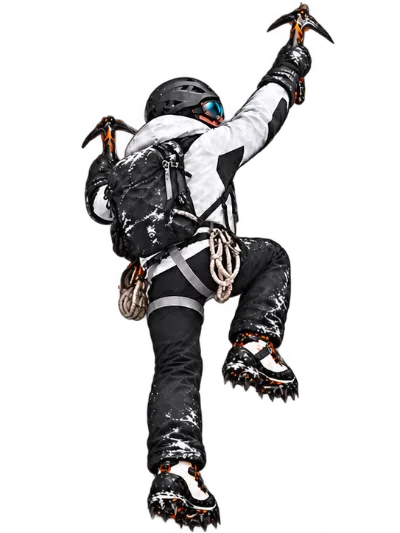
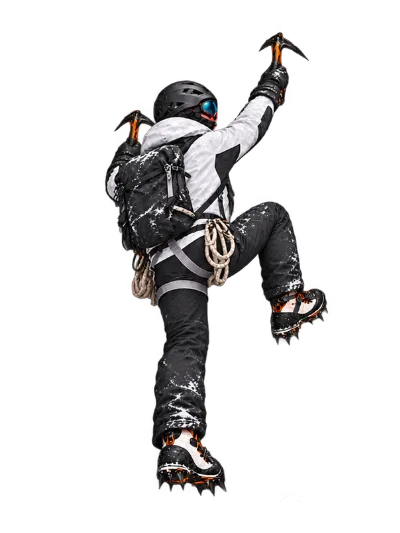
Rebuild Ascent climber as complete drawn frames

Changed region(s): [[0.21, 0.0, 0.84, 1.0]]

diff --git a/assets/js/expedition.js b/assets/js/expedition.js
@@ -16,18 +16,11 @@
   const climber = root.querySelector('[data-expedition-climber]');
   const primaryFrame = climber.querySelector('[data-climber-frame-primary]');
   const firstFrameUrl = primaryFrame.getAttribute('href');
-  const frameUrls = Array.from({ length: 17 }, (_, index) =>
+  const frameUrls = Array.from({ length: 16 }, (_, index) =>
     firstFrameUrl.replace(/01\.webp/, `${String(index + 1).padStart(2, '0')}.webp`));
-  // Register each complete illustration by its blue-goggle center. Source
-  // sheets varied in character placement; the old unregistered swaps made
-  // the whole body jump even when the route/camera was continuous.
-  const registration = [
-    [-5, 7], [17, 8], [-3, 22], [-6, 18], [22, 20],
-    [-7, -8], [5, -9], [-10, -6], [-25, -8], [-6, -8],
-    [6, -7], [-21, -6], [0, -7], [-25, -11], [39, -10],
-    [-6, 14], [38, 0],
-  ];
-  // Warm the remaining poses after the first page paint. Fetching all 17 at
+  // Every complete-body image is registered to the same goggle position at
+  // export time, so runtime pose changes need no per-limb or per-frame shifts.
+  // Warm the remaining poses after the first page paint. Fetching all 16 at
   // startup competed with the mountain's first paint on mobile. Any deliberate
   // wheel/touch interaction starts preloading sooner.
   const frameCache = [];
@@ -117,8 +110,8 @@
     // the climber appear to fall back after the wheel stopped. The intended
     // screen height steadily rises throughout the route, without a loop reset.
     const stride = current - Math.floor(current);
-    // Two upward pushes per entry follow the planted opposite foot. Between
-    // pushes the torso holds its height while a tool moves to its next hold.
+    // Two upward pushes per entry follow the illustrated foothold phases.
+    // Between pushes the torso holds its height while a tool finds a hold.
     const pushRight = ease(clamp01((stride - .28) / .23));
     const pushLeft = ease(clamp01((stride - .78) / .22));
     const climbProgress = (Math.floor(current) + (pushRight + pushLeft) / 2) / stages;
@@ -132,8 +125,6 @@
     const frameIndex = Math.floor(pose);
     if (primaryFrame.getAttribute('href') !== frameUrls[frameIndex])
       primaryFrame.setAttribute('href', frameUrls[frameIndex]);
-    primaryFrame.setAttribute('x', registration[frameIndex][0]);
-    primaryFrame.setAttribute('y', registration[frameIndex][1]);
     climber.setAttribute('transform', `translate(${(point.x + 45).toFixed(2)} ${(point.y + 65).toFixed(2)}) scale(1.65)`);
     position.textContent = String(Math.min(stages + 1, Math.floor(current) + 1)).padStart(2, '0');
     const nearest = Math.round(current);

diff --git a/_includes/expedition.html b/_includes/expedition.html
@@ -22,7 +22,7 @@
         <ellipse class="expedition-contact-shadow" data-expedition-contact rx="17" ry="5" filter="url(#expedition-contact-blur)" />
         <g class="expedition-climber" data-expedition-climber>
           <svg x="-54" y="-106" width="88" height="117" viewBox="0 0 400 533" overflow="visible">
-            <image data-climber-frame-primary href="{{ '/assets/media/ascent-climber-frame-01.webp' | relative_url }}?v=ascent-10" width="400" height="533" />
+            <image data-climber-frame-primary href="{{ '/assets/media/ascent-climber-frame-01.webp' | relative_url }}?v=ascent-11" width="400" height="533" />
           </svg>
         </g>
       </g>

diff --git a/_layouts/default.html b/_layouts/default.html
@@ -19,7 +19,7 @@
   <script src="{{ '/assets/js/site.js' | relative_url }}" defer></script>
   <script src="{{ '/assets/js/experience.js' | relative_url }}" defer></script>
   <script src="{{ '/assets/js/contact.js' | relative_url }}" defer></script>
-  {% if page.url == '/journey/' %}<script src="{{ '/assets/js/expedition.js' | relative_url }}?v=ascent-10" defer></script>{% endif %}
+  {% if page.url == '/journey/' %}<script src="{{ '/assets/js/expedition.js' | relative_url }}?v=ascent-11" defer></script>{% endif %}
 </head>
 <body data-baseurl="{{ site.baseurl }}">
   {% include header.html %}

diff --git a/docs/ASCENT_ART.md b/docs/ASCENT_ART.md
@@ -9,12 +9,11 @@ The mountain backdrop, close ice wall and climber poses are original generated i
 - Foreground source: `assets/img/ascent-icewall-illustration.png`; responsive alpha WebP: `assets/media/ascent-icewall-800.webp` and `ascent-icewall-480.webp`, with `ascent-icewall-480.avif` on supported mobile browsers.
 - Earlier orange climber source: `assets/img/ascent-climber-frames.png`; its first transparent pose remains at `assets/media/ascent-climber-01.webp` for provenance, but is no longer loaded by the page. That sheet did not provide the current black-and-white frame sequence.
 - Earlier black-and-white climber source: `assets/img/ascent-climber-alpine.png` (1086 × 1448, transparent); optimized single pose: `assets/media/ascent-climber-alpine.webp`. It informed the current clothing, gear and view angle. The hinged raster-limb rig that cut up this painting was removed after it repeatedly produced broken-looking joints.
-- Current animation sources: four transparent 2 × 2 sheets in `assets/img/ascent-climb-step-left.png`, `ascent-climb-hand-to-left.png`, `ascent-climb-step-right.png`, and `ascent-climb-hand-to-right.png`, plus the two full-size intermediate poses `ascent-climb-left-foot-mid.png` and `ascent-climb-right-foot-mid.png`. These were generated with the earlier black-and-white climber as a visual reference, then visually curated into a 17-pose cycle: high right tool with rising left crampon; handover to the high left tool; rising right crampon; handover back to the right tool. The intermediate drawings close the largest leg-position jumps. `npm run build:climber-frames` extracts/optimizes them to `assets/media/ascent-climber-frame-01.webp` through `-17.webp` (400 × 533). The older three cycle sheets remain as provenance but are not used in this revision.
-- October 12 pose correction: the five revised sources `step-left`, `hand-to-left`, `step-right`, `right-foot-mid`, and `hand-to-right` redraw the straight supporting leg almost vertically beneath the hip, replacing the extreme diagonal split visible in earlier frames. The bent stepping leg and alternating arm poses remain. The source sheets are canonical; regenerate WebPs with `npm run build:climber-frames`. The rendered image URL uses `?v=ascent-10` so returning visitors receive the revised art.
-- The site warms the remaining 16 WebPs after the first page paint or on the viewer's first scroll interaction, and shows exactly one complete pose at a time. Each whole illustration is translated slightly so its blue goggles stay at a common anchor. Arms, legs, jacket and gear are never independently rotated or resized. We tried a two-image crossfade in the browser but rejected it because it made the climber translucent and duplicated tools/feet; we also rejected an optical-flow intermediate because it produced broken extra legs. The scene's route/camera update continuously, while the artwork remains 17 discrete poses per entry rather than a filmed or physically simulated climb. Reduced-motion holds the first pose. The outfit is unbranded black-and-white alpine technical gear.
+- Current animation sources: four newly generated transparent 2 × 2 sheets, `assets/img/ascent-climber-clean-right.png`, `ascent-climber-clean-crossover-left.png`, `ascent-climber-clean-left.png`, and `ascent-climber-clean-crossover-right.png`. Every panel is an independently drawn **complete figure** with its own torso, arms, legs, boots, tools and gear. The former six pose sources were removed after the clean-sheet redraw; Git history retains them. `npm run build:climber-frames` selects and orders 16 complete poses, aligns each by its blue goggle lens, removes tiny disconnected crop artifacts, and exports `assets/media/ascent-climber-frame-01.webp` through `-16.webp` (400 × 533). `node scripts/preview_climber_frames.cjs` writes an inspection contact sheet to `test-results/`.
+- The site warms the remaining 15 WebPs after the first page paint or on the viewer's first scroll interaction, and shows exactly one complete pose at a time. Arms, legs, jacket and gear are never independently rotated or resized. A two-image crossfade was previously rejected because it made the climber translucent and duplicated tools/feet; an optical-flow intermediate produced broken extra legs. The scene's route/camera update continuously, while the artwork remains 16 discrete poses per entry rather than a filmed or physically simulated climb. Reduced-motion holds the first pose. The outfit is unbranded black-and-white alpine technical gear. The rendered asset and script version is `ascent-11`.
 - The Home identity section reuses the existing Everest illustration through its 800 px WebP derivative. No new mountain asset was generated.
 
-Movement references: [Petzl's ice-climbing technique video](https://www.petzl.com/int/en/sport/tech-tips/basic-techniques/ice-climbing-technique---the-basics/Cascade-gestuelle_SPO_a771r000000PFoJAAW.html) and [Petzl's Ice Climbing Basics access book](https://s3.amazonaws.com/Petzl_home_Prod/Accessbook/ACCESSBOOK-ICE-CLIMBING-EN-2018.pdf) emphasize stable stance and rising through the legs. [Wyoming Mountain Guides' introductory course guide](https://wyomingmountainguides.com/ice-climbing/intro-to-ice-climbing-course-guide/) describes moving the opposite foot first from the high tool. These sources informed the illustration's rhythm; the website is not climbing instruction or a physical simulation.
+Movement references: [Petzl's ice-climbing technique video](https://www.petzl.com/int/en/sport/tech-tips/basic-techniques/ice-climbing-technique---the-basics/Cascade-gestuelle_SPO_a771r000000PFoJAAW.html), [Petzl's Ice Climbing Basics access book](https://s3.amazonaws.com/Petzl_home_Prod/Accessbook/ACCESSBOOK-ICE-CLIMBING-EN-2018.pdf), and [REI's ice-climbing guidance](https://www.rei.com/learn/expert-advice/ice-climbing-waterfalls-alpine-walls.html) emphasize stable tool/foot placements and rising through the legs. These sources informed the illustration's rhythm; the individual drawn poses are not climbing instruction or a physical simulation.
 
 Current climber generation, built-in imagegen `precise-object-edit`, transparent output, referenced original `assets/media/ascent-climber-01.webp`:
 

diff --git a/PROJECT_STATUS.md b/PROJECT_STATUS.md
@@ -4,7 +4,7 @@ Updated: October 12, 2026 (America/Los_Angeles).
 
 ## Current state
 
-**The approved site design remains intact. The dedicated Ascent uses 17 complete, registered black-and-white climber poses; the straight supporting leg now stays nearly below the hip instead of stretching sideways into a split.** The opposite foot still steps with each arm reach. No limb cutouts, joint rotation, or limb scaling remain. The self-service Markdown workflow, original content, four navigation destinations, existing links and approved page structure remain intact. Earlier Firefox/WebKit results predate this latest refinement; their executables are unavailable in this environment. Nothing has been pushed, merged or deployed.
+**The approved site design remains intact. The dedicated Ascent now uses 16 newly drawn, complete black-and-white mountaineer poses.** Each image contains the whole body and gear; the old hinge-based artwork and six previous pose sources are no longer used. The self-service Markdown workflow, original content, four navigation destinations, existing links and approved page structure remain intact. Earlier Firefox/WebKit results predate this latest refinement; their executables are unavailable in this environment. Nothing has been pushed, merged or deployed.
 
 - Active repository: `C:/Users/super/Documents/ChatGPT/portfolio website remodel/portfolio-v2`.
 - Branch: `codex/portfolio-v2`, based on `da50b14` (`main`).
@@ -13,7 +13,16 @@ Updated: October 12, 2026 (America/Los_Angeles).
 - Local preview: `http://127.0.0.1:4173/`, serving production `_site` output.
 - Parent workspace `PROJECT_STATUS.md` points here. This is the canonical handoff.
 
-## October 12 supporting-leg posture correction — latest handoff
+## October 12 complete-frame redraw — latest handoff
+
+- Completed: replaced the previous six mixed pose sources with four fresh transparent 2 × 2 sheets containing 16 individually drawn **whole climbers**. Curated the step and handover order, aligned frames by the goggle position at export, removed a stray crop fragment, regenerated all 400 × 533 WebPs and removed the unused seventeenth frame. The runtime still displays one whole image at a time; there are no separate arm/leg/body pieces, joint rotations, or limb scaling. Ice tools read in side profile toward the wall. The Everest background, route, posts, page layouts, navigation and other site elements were not changed. Bumped Ascent asset/script URLs to `ascent-11`.
+- Currently in progress: none in the code. A real-device motion judgment remains before calling the animation production-ready.
+- Design/technical decision: the four PNG sheets in `assets/img/ascent-climber-clean-*.png` are the editable originals. `npm run build:climber-frames` recreates the 16 shipped WebPs. `node scripts/preview_climber_frames.cjs` produces a 4 × 4 visual inspection sheet. The original full-figure frame method is retained; no procedural rig or optical-flow frame synthesis is shipped.
+- Testing performed: baseline production Jekyll build and Chrome Ascent test passed before edits. After editing, regenerated all 16 WebPs and inspected the complete contact sheet, including both end-to-start and arm handover transitions; inspected the climber in the rendered desktop mountain scene; production Jekyll build, 16-image decode and anatomy/foot-position browser checks, focused Ascent browser suite, full Chrome browser suite (94 routes, 132 responsive pages, 22 accessibility scans, 6 general interaction groups, 10 experience groups, 11 editorial groups, 10 Ascent groups), and site integrity check (26 original files, nine post routes, 47 pages, 1,688 local references) passed. After documentation and old-source cleanup, the production build, integrity check, focused Ascent test, JavaScript syntax checks and Git whitespace check passed again.
+- Known issues and limits: 16 independent illustrations still change in discrete steps during slow scrolling; this is not a 30 fps video or physically constrained climb. Some changes in torso viewpoint at the handover are more visible than the smaller same-side steps. Hand and foot contact is illustrative, not solved against the exact wall geometry. Firefox/WebKit runners, real-device review, branch-only Linux CI and custom-domain verification remain outstanding. No push, merge or deployment.
+- **Exact recommended next task:** review `/journey/` on a real phone and desktop with slow and fast scrolling in both directions, concentrating on the two handovers between right- and left-leading poses. If motion still appears jumpy, commission or create a purpose-animated, consistently registered full-body frame sequence or rendered video from one character model; keep the whole-frame architecture and the approved page design. Then run Firefox/WebKit and branch-only CI before considering production.
+
+## October 12 supporting-leg posture correction — earlier handoff, superseded by redraw above
 
 - Completed: redrew five canonical transparent source images and regenerated the affected 400 × 533 WebP poses. In each straight-leg pose, the supporting boot falls almost directly below the hip; the other knee stays bent and stepping upward. Preserved the full-body frame approach, arm sequence, Everest scene, page layout, and content. Added an `ascent-10` image URL and script version so returning browsers fetch the corrected artwork.
 - In progress: none after this commit. The illustrated sequence still has discrete poses rather than a filmed 30 fps motion capture, and foothold contact is visual rather than physically constrained.
